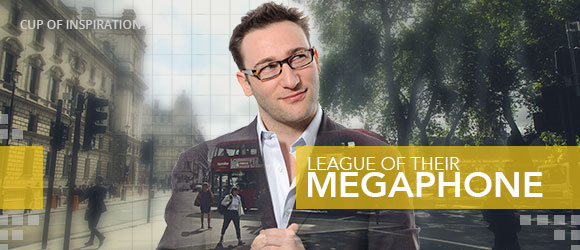
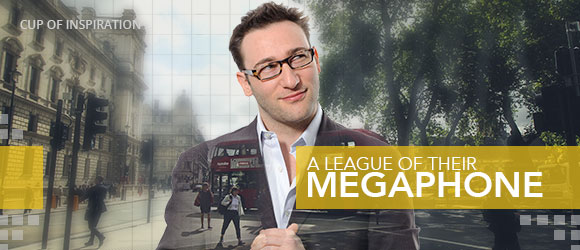
added

Changed region(s): [[0.5276, 0.616, 0.8379, 0.7]]

diff --git a/cupofsunshine/email/03_08_17.html b/cupofsunshine/email/03_08_17.html
@@ -69,9 +69,9 @@
 
     td {
       word-wrap: break-word;
-      -webkit-hyphens: auto;
-      -moz-hyphens: auto;
-      hyphens: auto;
+      -webkit-hyphens: none;
+      -moz-hyphens: none;
+      hyphens: none;
       border-collapse: collapse !important; }
 
     table, tr, td {
@@ -1158,10 +1158,20 @@
                                   <!--<h3 class="text-center">It's Never Been Easier to Do Things.</h3>-->
                                   <p class="text-center">Hi *|FNAME|*<br><br>
 
-                                  This past Sunday marked the 89th Academy Awards. Second to the Big Game, this is the most watched annual event on tv. Even though there was controversy with it, there were incredible moments of beauty and hope. <br><br>
-                                  A great amount of diversity appeared like best picture winner Moonlight, which depicted black masculinity as something vulnerable and imaginative rebelling against its cultural norms and best foreign film winner The Salesman, which depicted middle class life in Iran. GE commercial promoted women in tech and encouraged us to view female scientists as celebrities. Instead of big name celebrities wearing extravagant accessories they chose to wore ribbons and buttons that promoted support of American rights for Muslims and other immigrants. <br><br>
-                                  When we have the strength to help encourage and promote positivity, everybody wins.<br><br>
-                                  Hope you enjoy this week's inspiration.<br><br>
+                                  I recently learned how Billiards transformed the way we live in the modern world today and want to take a brief moment to share.<br><br>
+
+                                  In the mid 19th century billiards was one of the most popular amusements. Before it got its fame, Michael Phelan, a brilliant billiards player, worked tirelessly to popularize it in America. <br><br>
+
+                                  In order to do this Micheal realized he had to standardize the game because if the rules and equipment were different at various locations then it would be a different game. As Michael tried standardizing the equipment, he realized the cue ball was extremely difficult to standardize. The cue ball needed to have very specific attributes like having the right type of bounce and a uniform density. There was only one type of material to do this, and it was&nbsp;ivory. <br><br>
+
+                                  By using ivory elephants would suffer. One elephant tusk would produce five cue balls. As other materials were tested and tried, ivory appeared to be the perfect solution.<br><br>
+
+                                  In response to Phelan's $10,000 prize to come up with an alternative to ivory, a printer by the name of John Weslay Hyatt invented celluloid, the first plastic. This plastic wasn't successful as an ivory replacement, but ended up being used for so many goods we use today. <br><br>
+
+                                  As the years went by other forms of plastic were created. In 1907 Leo Baekeland created a new type of plastic: Bakelite plastic. With this plastic you can vary the density and the elasticity. The result created the perfect material for a cue ball.<br><br>
+
+                                  In efforts to achieve greatness in one thing, it revolutionized the way we live&nbsp;today.<br><br>
+
                                   Jae</p>
                                 </th>
                                 <th class="expander"></th>
@@ -1262,7 +1272,7 @@
                                 <th>
                                   <h6 class="grey-text uppercase">Cup of Inspiration</h6>
                                   <h3 class="uppercase">A League of Their Megaphone</h3>
-                                  <p class="text-center">"Your work is your own private megaphone to tell the world what you believe."<br><br> &mdash;Simon Sinek</p>
+                                  <p class="text-center">"Your work is your own private megaphone to tell the world what you&nbsp;believe."<br><br> &mdash;Simon Sinek</p>
                                 </th>
                                 <th class="expander"></th>
                               </tr>
@@ -1333,7 +1343,7 @@
                                 <th>
                                   <h6 class="grey-text uppercase">Tall Glass of Inspiration</h6>
                                   <h3 class="uppercase">The Dream Mile</h3>
-                                  <p class="text-center">"A dream written down with a date becomes a goal.
+                                  <p class="text-center">"A dream written down with a date becomes a goal.<br>
                                     A goal broken down into steps becomes a plan.<br>
                                     A plan backed by action makes your dreams come true. "<br><br>
                                   &mdash;Greg S. Reid</p>
@@ -1389,7 +1399,7 @@
                                     </tbody>
                                   </table>
                                   <p class="text-center">For more inspiration and free goodies, <a href="http://cup-of-sunshine.webflow.io/" target="_blank">click here</a></p>
-                                  <p class="text-center">If you have something you'd like to share that you think will put some extra pep in people's steps, hit that reply button.</p>
+                                  <p class="text-center">If you like what you've read, hit that reply button and let me know. Your feedback is very important!</p>
 
                                 </th>
                                 <th class="expander"></th>
